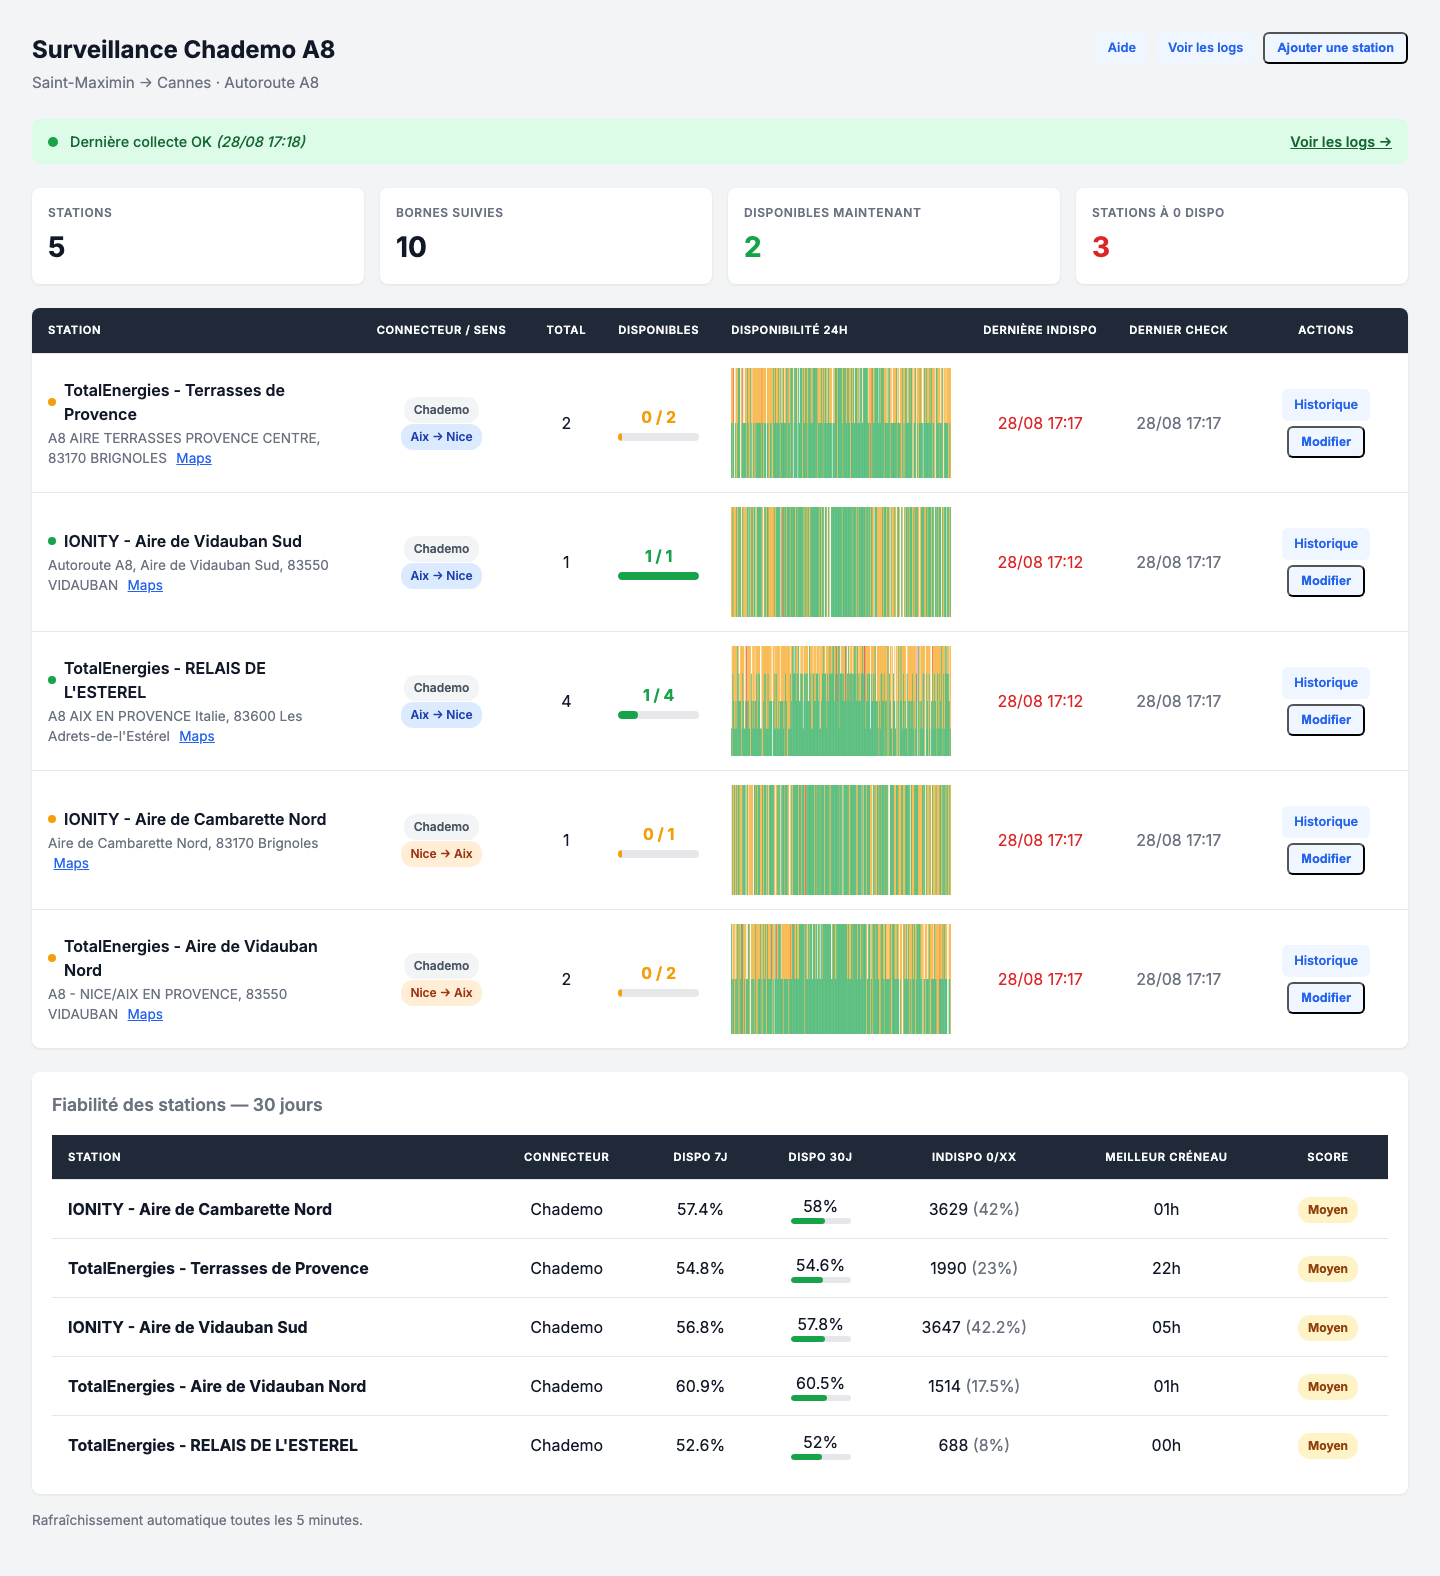
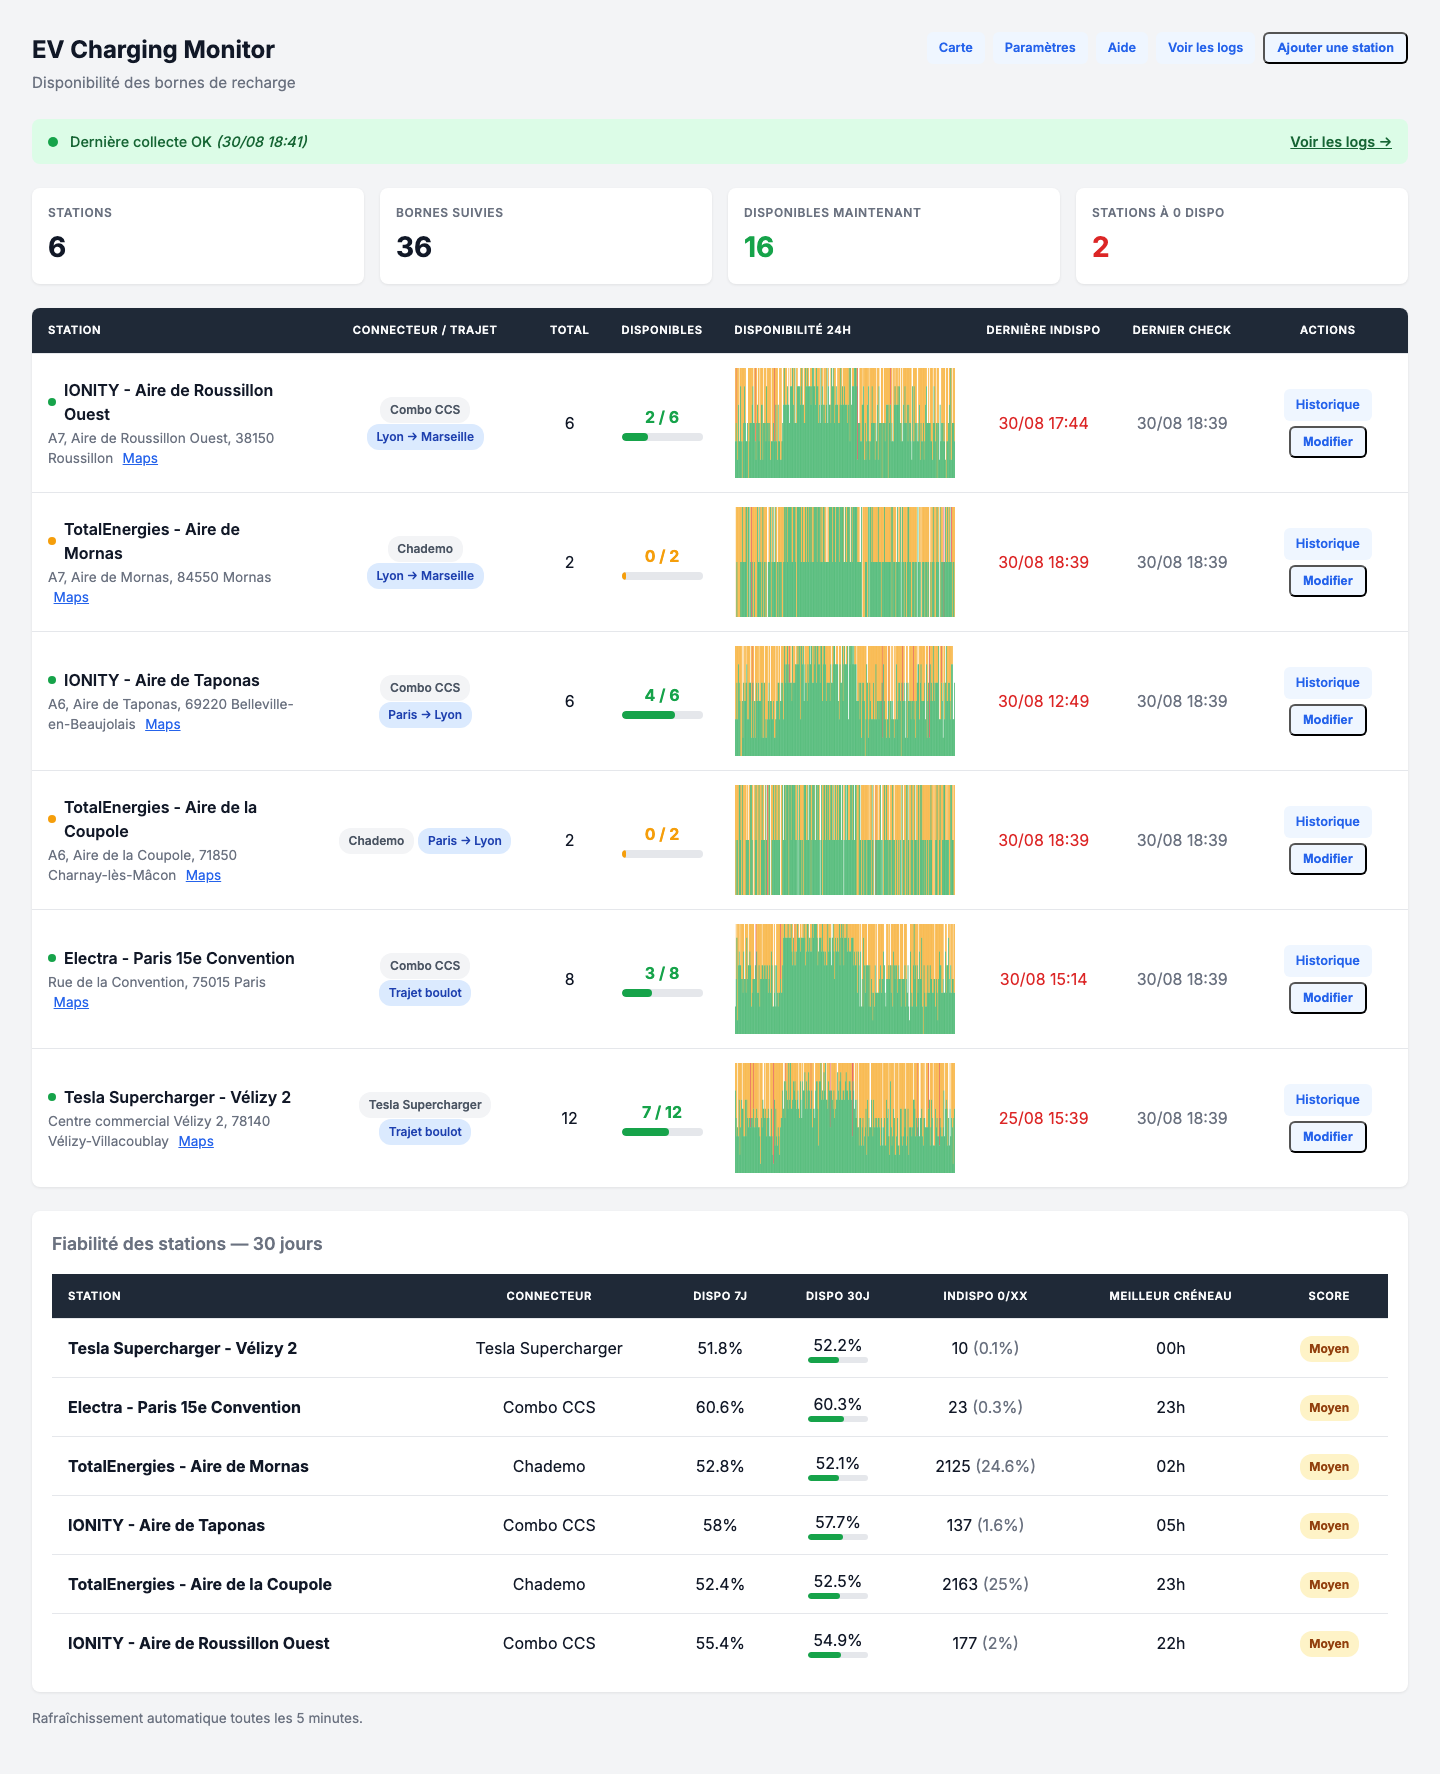
docs: régénère les captures d'écran et actualise le README
- données factices génériques (trajets Paris → Lyon, Lyon → Marseille,
  Trajet boulot ; connecteurs Combo CCS, Chademo, Tesla Supercharger)
- nouvelles captures : carte interactive et page Paramètres
- section Aperçu du README enrichie (carte, détail station, paramètres)
- corrige l'attente des marqueurs Leaflet (circleMarker = SVG)

diff --git a/scripts/capture_screenshots.py b/scripts/capture_screenshots.py
@@ -27,69 +27,82 @@ OUTPUT_DIR = ROOT / "docs" / "screenshots"
 
 SAMPLE_STATIONS = [
     {
-        "id": "ionity-aire-de-cambarette-nord",
-        "name": "IONITY - Aire de Cambarette Nord",
+        "id": "ionity-aire-de-taponas",
+        "name": "IONITY - Aire de Taponas",
         "operator": "IONITY",
-        "address": "Aire de Cambarette Nord, 83170 Brignoles",
-        "direction": "Nice → Aix",
-        "lat": 43.423878,
-        "lon": 5.990385,
-        "charging_availability_id": "ionity-aire-de-cambarette-nord",
-        "chademo_total": 1,
-        "connector_type": "CHADEMO",
+        "address": "A6, Aire de Taponas, 69220 Belleville-en-Beaujolais",
+        "direction": "Paris → Lyon",
+        "lat": 46.1385,
+        "lon": 4.7593,
+        "charging_availability_id": "ionity-aire-de-taponas",
+        "chademo_total": 6,
+        "connector_type": "COMBO_TYPE_2",
         "display_order": 0,
     },
     {
-        "id": "total-les-terrasses-de-provence",
-        "name": "TotalEnergies - Terrasses de Provence",
+        "id": "totalenergies-aire-de-la-coupole",
+        "name": "TotalEnergies - Aire de la Coupole",
         "operator": "TotalEnergies",
-        "address": "A8 AIRE TERRASSES PROVENCE CENTRE, 83170 BRIGNOLES",
-        "direction": "Aix → Nice",
-        "lat": 43.421974,
-        "lon": 5.992246,
-        "charging_availability_id": "total-les-terrasses-de-provence",
-        "chademo_total": 2,
-        "connector_type": "CHADEMO",
-        "display_order": 0,
-    },
-    {
-        "id": "ionity-aire-de-vidauban-sud-1",
-        "name": "IONITY - Aire de Vidauban Sud",
-        "operator": "IONITY",
-        "address": "Autoroute A8, Aire de Vidauban Sud, 83550 VIDAUBAN",
-        "direction": "Aix → Nice",
-        "lat": 43.41383,
-        "lon": 6.45101,
-        "charging_availability_id": "ionity-aire-de-vidauban-sud-1",
-        "chademo_total": 1,
-        "connector_type": "CHADEMO",
-        "display_order": 1,
-    },
-    {
-        "id": "totalenergies-a8-aire-de-vidauban-nord",
-        "name": "TotalEnergies - Aire de Vidauban Nord",
-        "operator": "TotalEnergies",
-        "address": "A8 - NICE/AIX EN PROVENCE, 83550 VIDAUBAN",
-        "direction": "Nice → Aix",
-        "lat": 43.415501,
-        "lon": 6.4519,
-        "charging_availability_id": "totalenergies-a8-aire-de-vidauban-nord",
+        "address": "A6, Aire de la Coupole, 71850 Charnay-lès-Mâcon",
+        "direction": "Paris → Lyon",
+        "lat": 46.2967,
+        "lon": 4.8012,
+        "charging_availability_id": "totalenergies-aire-de-la-coupole",
         "chademo_total": 2,
         "connector_type": "CHADEMO",
         "display_order": 1,
     },
     {
-        "id": "totalenergies-a8-aire-de-l-esterel",
-        "name": "TotalEnergies - RELAIS DE L'ESTEREL",
+        "id": "ionity-aire-de-roussillon-ouest",
+        "name": "IONITY - Aire de Roussillon Ouest",
+        "operator": "IONITY",
+        "address": "A7, Aire de Roussillon Ouest, 38150 Roussillon",
+        "direction": "Lyon → Marseille",
+        "lat": 45.3521,
+        "lon": 4.8102,
+        "charging_availability_id": "ionity-aire-de-roussillon-ouest",
+        "chademo_total": 6,
+        "connector_type": "COMBO_TYPE_2",
+        "display_order": 0,
+    },
+    {
+        "id": "totalenergies-aire-de-mornas",
+        "name": "TotalEnergies - Aire de Mornas",
         "operator": "TotalEnergies",
-        "address": "A8 AIX EN PROVENCE Italie, 83600 Les Adrets-de-l'Estérel",
-        "direction": "Aix → Nice",
-        "lat": 43.542,
-        "lon": 6.786,
-        "charging_availability_id": "totalenergies-a8-aire-de-l-esterel",
-        "chademo_total": 4,
+        "address": "A7, Aire de Mornas, 84550 Mornas",
+        "direction": "Lyon → Marseille",
+        "lat": 44.2089,
+        "lon": 4.7314,
+        "charging_availability_id": "totalenergies-aire-de-mornas",
+        "chademo_total": 2,
         "connector_type": "CHADEMO",
-        "display_order": 2,
+        "display_order": 1,
+    },
+    {
+        "id": "electra-paris-15e-convention",
+        "name": "Electra - Paris 15e Convention",
+        "operator": "Electra",
+        "address": "Rue de la Convention, 75015 Paris",
+        "direction": "Trajet boulot",
+        "lat": 48.8421,
+        "lon": 2.3156,
+        "charging_availability_id": "electra-paris-15e-convention",
+        "chademo_total": 8,
+        "connector_type": "COMBO_TYPE_2",
+        "display_order": 0,
+    },
+    {
+        "id": "tesla-supercharger-velizy",
+        "name": "Tesla Supercharger - Vélizy 2",
+        "operator": "Tesla",
+        "address": "Centre commercial Vélizy 2, 78140 Vélizy-Villacoublay",
+        "direction": "Trajet boulot",
+        "lat": 48.7798,
+        "lon": 2.2214,
+        "charging_availability_id": "tesla-supercharger-velizy",
+        "chademo_total": 12,
+        "connector_type": "TESLA_SUPERCHARGER_EU",
+        "display_order": 1,
     },
 ]
 
@@ -217,7 +230,7 @@ def main():
             print(f"Capture : {OUTPUT_DIR / 'reliability.png'}")
 
             # Capture de la page de détail
-            page.goto(base_url + "/station/ionity-aire-de-cambarette-nord")
+            page.goto(base_url + "/station/ionity-aire-de-taponas")
             page.wait_for_selector("#historyChart", timeout=10000)
             time.sleep(1)
             page.screenshot(path=str(OUTPUT_DIR / "station-detail.png"), full_page=True)
@@ -228,6 +241,22 @@ def main():
             heatmap_card.wait_for(timeout=10000)
             heatmap_card.screenshot(path=str(OUTPUT_DIR / "heatmap.png"))
             print(f"Capture : {OUTPUT_DIR / 'heatmap.png'}")
+
+            # Capture de la carte interactive (Leaflet + tuiles OSM via CDN)
+            page.goto(base_url + "/carte")
+            page.wait_for_selector("#map", timeout=10000)
+            # Attendre les marqueurs (circleMarker = SVG) puis les tuiles OSM
+            page.wait_for_selector(".leaflet-overlay-pane path", timeout=15000)
+            time.sleep(3)
+            page.screenshot(path=str(OUTPUT_DIR / "carte.png"))
+            print(f"Capture : {OUTPUT_DIR / 'carte.png'}")
+
+            # Capture de la page des paramètres
+            page.goto(base_url + "/parametres")
+            page.wait_for_selector("#prefAppName", timeout=10000)
+            time.sleep(1)
+            page.screenshot(path=str(OUTPUT_DIR / "parametres.png"), full_page=True)
+            print(f"Capture : {OUTPUT_DIR / 'parametres.png'}")
 
             browser.close()
     finally:

diff --git a/README.md b/README.md
@@ -16,13 +16,23 @@ Les données proviennent de l’API **Chargemap** et sont collectées toutes les
 
 ![Dashboard](docs/screenshots/dashboard.png)
 
+### Carte interactive et ajout de stations
+
+![Carte](docs/screenshots/carte.png)
+
 ### Fiabilité des stations sur 30 jours
 
 ![Fiabilité 30 jours](docs/screenshots/reliability.png)
 
-### Créneaux de disponibilité par jour / heure
+### Détail d'une station : historique et créneaux de disponibilité
+
+![Détail station](docs/screenshots/station-detail.png)
 
 ![Heatmap](docs/screenshots/heatmap.png)
+
+### Page Paramètres : trajets et préférences
+
+![Paramètres](docs/screenshots/parametres.png)
 
 ---
 
